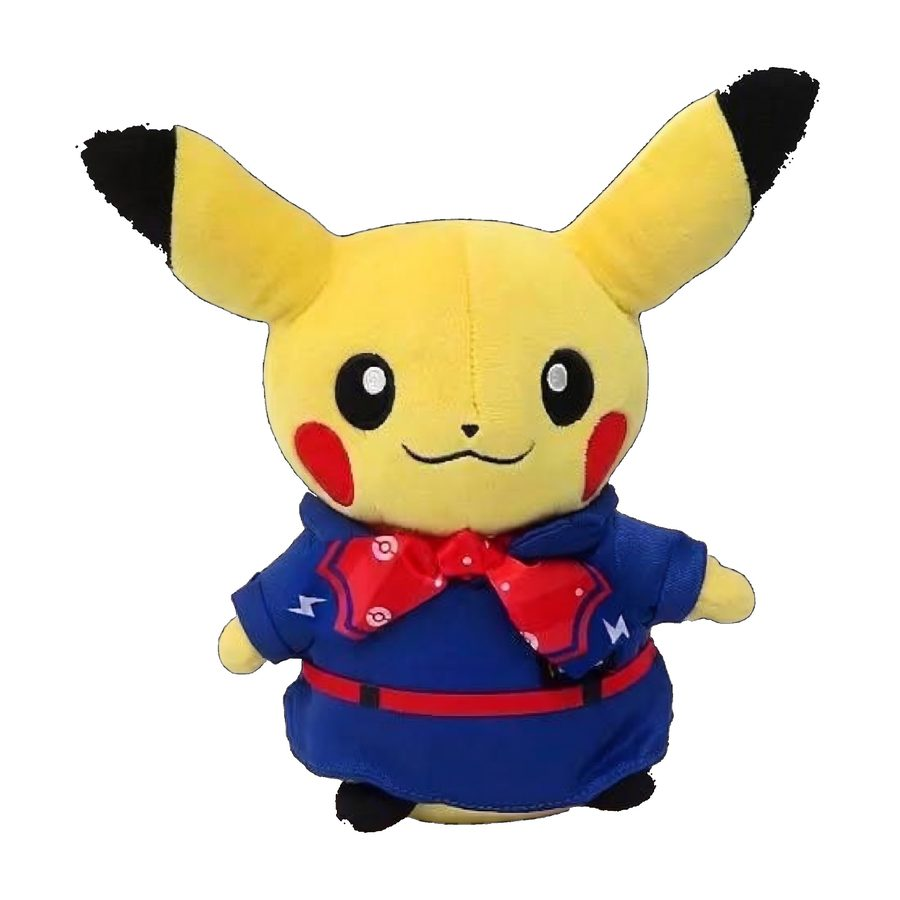
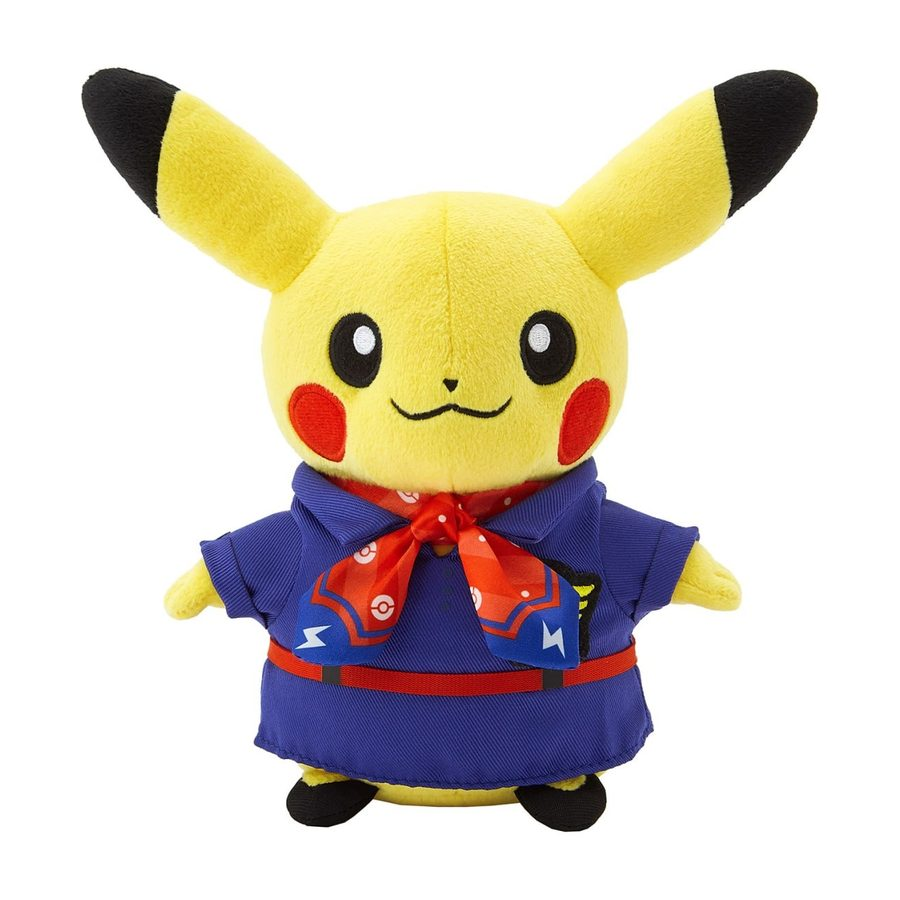
pokemon-center-dolls: clearer CTS CA image from Derek
Claude-Session: https://claude.ai/code/session_01M6TQq33QhxbbsKCZmYDaPW

Changed region(s): [[0.0933, 0.0622, 0.9022, 0.9333], [0.8711, 0.1244, 0.9022, 0.1867], [0.9022, 0.0933, 0.9333, 0.1244]]

diff --git a/pokemon-center-dolls/index.html b/pokemon-center-dolls/index.html
@@ -126,7 +126,7 @@ const items = [
  {box:"08-cts-pilot.jpg", img:"08-cts-pilot.jpg", name:"新千歲機場 機長皮卡丘(ver.2)", jp:"ぬいぐるみ パイロットピカチュウ 新千歳空港ver.2", loc:"ポケモンストア 新千歲空港店限定", year:"2020/06(ver.2)", conf:"高",
   note:"黑色機長帽＋白襯衫、深藍領帶,胸前「CTS」徽章(新千歲機場代碼)。新千歲機場官網推薦商品頁「ぬいぐるみ パイロットピカチュウ 新千歳空港ver.2」,官方圖與實物一致;現價 ¥2,750(2023 年存檔頁為 ¥1,870)。初代(2014 開店款)是深藍雙排釦外套版。與空服款成對購入。"},
  {box:"08b-cts-ca.jpg", img:"08b-cts-ca.jpg", name:"新千歲機場 空服皮卡丘(ver.2)", jp:"CAピカチュウ ポケモンストア新千歳空港店 ver.2 ぬいぐるみ", loc:"ポケモンストア 新千歲空港店限定", year:"2020/06(ver.2)", conf:"高",
-  note:"藍色制服＋紅色寶貝球圖案領巾、紅腰帶,胸前「CTS」徽章。與機長款成對購入。JAN 4521329296562(駿河屋登錄品名);2020/06/13 與機長 ver.2 一起上市(夏服設計,依粉絲部落格)。白底圖為 Derek 用 Gemini 依商品照修圖(AI 修圖,非官網圖),官方價格未查到(成田空港 ver.2 同款設計但徽章為 NRT)。初代 CA(2015/05/28 加入)是粉紅條紋大蝴蝶結版,¥1,600(未稅)。"},
+  note:"藍色制服＋紅色寶貝球圖案領巾、紅腰帶,胸前「CTS」徽章。與機長款成對購入。JAN 4521329296562(駿河屋登錄品名);2020/06/13 與機長 ver.2 一起上市(夏服設計,依粉絲部落格)。白底商品圖由 Derek 提供(官方攝影風格,胸章被領巾遮住,CTS 版或成田 NRT 版無法從圖確認),官方價格未查到(成田空港 ver.2 同款設計但徽章為 NRT)。初代 CA(2015/05/28 加入)是粉紅條紋大蝴蝶結版,¥1,600(未稅)。"},
  {box:"13-white-pikachu.jpg", img:"13-white-pikachu.jpg", name:"淺淺丘（Pokémon Pokopia）", jp:"ぬいぐるみ ぽこ あ ポケモン ピカチュウ（うすいろ）", loc:"寶可夢中心(通販/全店)", year:"2026/03", conf:"高",
   note:"《Pokémon Pokopia》遊戲初登場的淺色皮卡丘「淺淺丘」——因幫朋友過度放電而虛弱,毛色轉為象牙白、耳朵下垂。刺繡眼、粉紅腮紅。定價 ¥2,750。"},
  {box:"14-sleepy-pikachu.jpg", img:"14-sleepy-pikachu.jpg", name:"趴睡皮卡丘(卡納赫拉聯名)", jp:"ぬいぐるみ Pokémon Yurutto 寝そべりピカチュウ", loc:"寶可夢中心(通販/全店)", year:"2020/12", conf:"高",
@@ -165,7 +165,7 @@ const TABS=[
 // 每個分頁內各自編號(同原本 1..n)
 const ALL=[];
 TABS.forEach(t=>t.data.forEach((it,i)=>ALL.push(Object.assign({},it,{id:t.id+'-'+(i+1),tab:t.id,n:i+1}))));
-const IMGV='?v=20261121b';
+const IMGV='?v=20261121c';
 const photosOf=c=>[c.box&&'img/box/'+c.box+IMGV,c.img&&'img/'+c.img+IMGV].filter(Boolean);
 CatalogViewer.init({
   load:()=>({items:ALL}),
